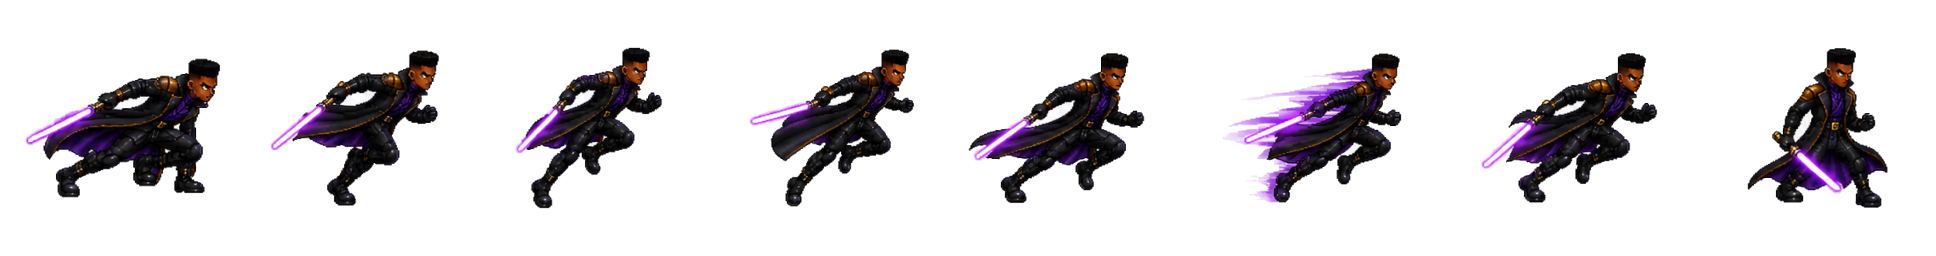
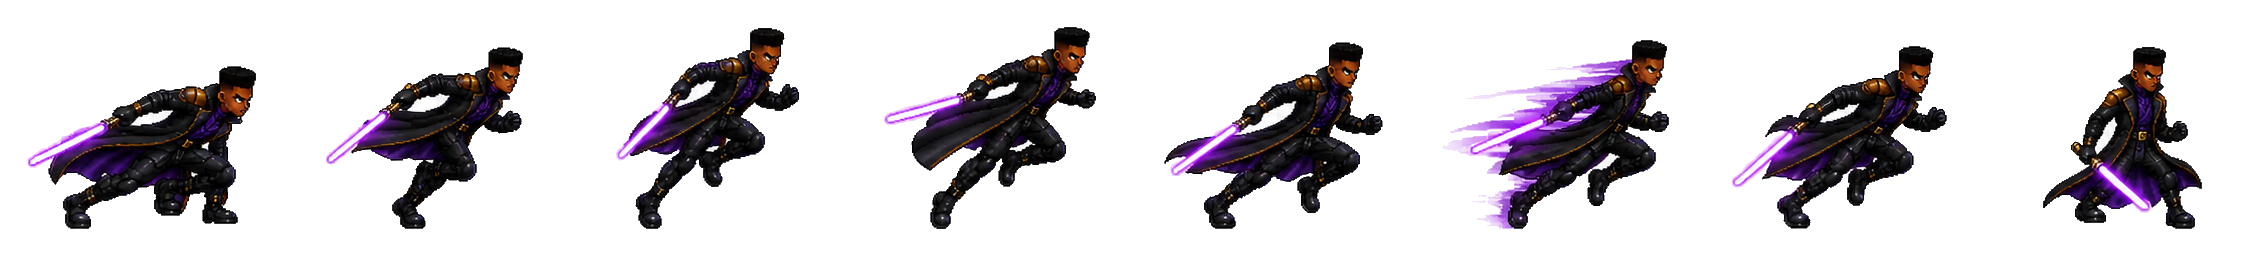
0.5.123 (build 161): running is a burst, and the character holds its size
A session is "working" almost all the time, so a sprint on a permanent loop was
what the pet did roughly 90% of the time. Running and patrol now play through
PetPlaylist: settled on the idle clip most beats, breaking into the action about
30% of them, capped at two consecutive beats. The first schedule produced runs
of EIGHT action beats — nineteen unbroken seconds of sprinting, the very problem
this fixes — and the contract test caught it, so the cap is enforced rather than
the test loosened. The cadence is a pure function of the clock, so a panel
redraw never makes playback jump. Fight poses are excluded.

Strips also normalise as a whole rather than per frame. Cropping and
height-fitting each frame independently ENLARGED a crouched running frame to
match a standing one, so the character appeared to grow and shrink mid-stride
while its feet drifted. One canvas, one scale, ink bottoms on a shared
baseline: measured on the V3 running strip, baseline spread is 0 px across all
eight frames and authored pose differences survive intact.

Build 160 was cut and installed locally but never published; its changes ship
here.

Changed region(s): [[0.0, 0.0938, 0.8678, 0.9062], [0.8988, 0.1875, 0.9917, 0.9062]]

diff --git a/Sources/Models.swift b/Sources/Models.swift
@@ -2634,6 +2634,58 @@ struct PetSize: Equatable {
     }
 }
 
+/// Running and patrol are TRANSITIONS, not resting states. A session spends
+/// most of its life "working", so one sprint loop repeating forever is what the
+/// pet does ~90% of the time and it reads as mechanical. These poses play as
+/// periodic bursts against a calmer clip instead: mostly at rest, breaking into
+/// the action every few segments, with the cadence varied so it never lands on
+/// an obvious repeat.
+///
+/// Seeded by segment index and nothing else — no stored state, so a re-render
+/// of the same instant always paints the same frame.
+enum PetPlaylist {
+    /// One beat. Long enough to read as a deliberate change, short enough that
+    /// the pet still feels responsive.
+    static let segmentSeconds: Double = 2.4
+    /// Roughly one beat in three is action; the rest settle.
+    static let actionInterval: UInt64 = 3
+
+    private static func rawPick(_ segment: Int) -> Bool {
+        var x = UInt64(bitPattern: Int64(segment)) &* 0x9E37_79B9_7F4A_7C15
+        x ^= x >> 30
+        x = x &* 0xBF58_476D_1CE4_E5B9
+        x ^= x >> 27
+        x = x &* 0x94D0_49BB_1331_11EB
+        x ^= x >> 31
+        return x % actionInterval == 0
+    }
+
+    /// The raw hash alone produced runs of eight consecutive action beats —
+    /// nineteen seconds of unbroken sprinting, which is the problem this
+    /// exists to solve. Two beats is a burst; a third would be a loop, so the
+    /// third is always a rest. Still a pure function of the segment index.
+    static func isActionSegment(_ segment: Int) -> Bool {
+        guard rawPick(segment) else { return false }
+        return !(rawPick(segment - 1) && rawPick(segment - 2))
+    }
+
+    /// Which clip to draw from, and which frame of it, at `elapsed` seconds.
+    static func plan(
+        elapsed: Double,
+        actionCount: Int,
+        restCount: Int,
+        interval: Double
+    ) -> (useAction: Bool, index: Int) {
+        guard actionCount > 0, restCount > 0, interval > 0 else { return (true, 0) }
+        let segment = Int((max(0, elapsed) / segmentSeconds).rounded(.down))
+        let useAction = isActionSegment(segment)
+        let within = max(0, elapsed) - Double(segment) * segmentSeconds
+        let count = useAction ? actionCount : restCount
+        let index = Int(within / interval) % count
+        return (useAction, index)
+    }
+}
+
 /// The character dial, independent of PetSize. Pet size sets the CARD (buttons,
 /// text, bubbles, list); this scales only the figure inside it, so the art can
 /// be read at detail without inflating the chrome around it.
@@ -2782,6 +2834,19 @@ enum PetSpritePose: String, CaseIterable, Hashable, Sendable {
     var cinematic: Bool {
         switch self {
         case .patrol, .duel, .trio, .swarm: true
+        default: false
+        }
+    }
+
+    /// Poses that read as an ACTION rather than a state. A session is
+    /// "working" almost all the time, so a sprint on a permanent loop is what
+    /// the pet does ~90% of the time; the same goes for patrol on one idle
+    /// session. These play through PetPlaylist: mostly settled, breaking into
+    /// the action every few beats. Fight poses are excluded — a duel should
+    /// look like a duel for as long as it lasts.
+    var usesActivityPlaylist: Bool {
+        switch self {
+        case .working, .patrol: true
         default: false
         }
     }
@@ -3335,6 +3400,64 @@ enum PetSpriteStrip {
         return kept
     }
 
+    /// Ink bounds of a frame, or nil when it holds no ink.
+    static func inkBounds(_ image: NSImage) -> (x: Int, y: Int, w: Int, h: Int)? {
+        guard let buffer = PetSpriteAlpha.rgbaBuffer(image) else { return nil }
+        var minX = buffer.width, minY = buffer.height, maxX = -1, maxY = -1
+        for y in 0..<buffer.height {
+            for x in 0..<buffer.width {
+                guard PetSpriteAlpha.isSpriteInk(buffer.pixels, at: (y * buffer.width + x) * 4) else { continue }
+                minX = min(minX, x); minY = min(minY, y)
+                maxX = max(maxX, x); maxY = max(maxY, y)
+            }
+        }
+        guard maxX >= minX, maxY >= minY else { return nil }
+        return (minX, minY, maxX - minX + 1, maxY - minY + 1)
+    }
+
+    /// Cropping and height-fitting each frame INDEPENDENTLY re-scales every
+    /// pose to fill the same box, so the character changes size between frames
+    /// of one animation. Measured on the V3 running strip: the figure rendered
+    /// at 54% of frame height in one frame and 62% in another — a 15% jump,
+    /// which reads as the character growing and shrinking as it runs.
+    ///
+    /// Normalise the STRIP instead: one canvas, one scale, ink bottoms on a
+    /// shared baseline. Authored size differences survive (a crouch stays
+    /// shorter than a stand) and the figure does not bob.
+    static func normalizeStrip(_ frames: [NSImage], paddingRatio: CGFloat = 0.12) -> [NSImage] {
+        guard frames.count > 1 else { return frames }
+        var boxes: [(x: Int, y: Int, w: Int, h: Int)] = []
+        var rasters: [CGImage] = []
+        for frame in frames {
+            guard let box = inkBounds(frame), let cg = raster(frame) else { return frames }
+            boxes.append(box)
+            rasters.append(cg)
+        }
+        let unionW = boxes.map(\.w).max() ?? 1
+        let unionH = boxes.map(\.h).max() ?? 1
+        let pad = max(8, Int((CGFloat(max(unionW, unionH)) * paddingRatio).rounded()))
+        let canvasW = unionW + pad * 2
+        let canvasH = unionH + pad * 2
+        var out: [NSImage] = []
+        out.reserveCapacity(frames.count)
+        for (index, cg) in rasters.enumerated() {
+            let box = boxes[index]
+            guard let ink = cg.cropping(to: CGRect(x: box.x, y: box.y, width: box.w, height: box.h)),
+                  let ctx = CGContext(
+                    data: nil, width: canvasW, height: canvasH, bitsPerComponent: 8,
+                    bytesPerRow: canvasW * 4, space: CGColorSpaceCreateDeviceRGB(),
+                    bitmapInfo: CGImageAlphaInfo.premultipliedLast.rawValue)
+            else { return frames }
+            ctx.clear(CGRect(x: 0, y: 0, width: canvasW, height: canvasH))
+            // Horizontally centred; ink BOTTOM on a shared baseline. A CGContext
+            // is bottom-up, so the baseline sits `pad` above its origin.
+            ctx.draw(ink, in: CGRect(x: (canvasW - box.w) / 2, y: pad, width: box.w, height: box.h))
+            guard let made = ctx.makeImage() else { return frames }
+            out.append(NSImage(cgImage: made, size: NSSize(width: canvasW, height: canvasH)))
+        }
+        return out
+    }
+
     /// Returns the prepared image AND the frame count that was stitched, so
     /// playback slices exactly what exists.
     static func prepare(_ image: NSImage, frames: Int = 1) -> (image: NSImage, frames: Int) {
@@ -3343,7 +3466,11 @@ enum PetSpriteStrip {
             return (fitHeight(cropOpaque(image)), 1)
         }
         let parts = dropSubjectlessFrames(sliceStripByValleys(image, frames: count))
-        let prepared = parts.map { fitHeight(cropOpaque(suppressTruncatedEdgeSlivers($0), paddingRatio: 0.30)) }
+        let cleaned = parts.map { suppressTruncatedEdgeSlivers($0) }
+        // One scale and one baseline for the whole strip. Per-frame
+        // cropOpaque + fitHeight here is what changed the character's size
+        // between frames of the same animation.
+        let prepared = normalizeStrip(cleaned).map { fitHeight($0) }
         guard let stitched = stitch(prepared) else { return (image, 1) }
         return (stitched, clampFrames(prepared.count))
     }

diff --git a/Tests/ModelsContract.swift b/Tests/ModelsContract.swift
@@ -1315,6 +1315,65 @@ struct ModelsContract {
         precondition(ladder.frames(for: .swarm).count == 4,
                      "swarm plays the full ladder")
 
+        // ACTIVITY PLAYLIST: running and patrol are actions, not states. They
+        // must spend MOST beats settled, break into the action sometimes, and
+        // be fully determined by the clock so a re-render never jumps.
+        precondition(PetSpritePose.working.usesActivityPlaylist)
+        precondition(PetSpritePose.patrol.usesActivityPlaylist)
+        precondition(!PetSpritePose.duel.usesActivityPlaylist,
+                     "a duel must look like a duel for as long as it lasts")
+        precondition(!PetSpritePose.idle.usesActivityPlaylist)
+        var actionBeats = 0
+        for segment in 0..<600 where PetPlaylist.isActionSegment(segment) { actionBeats += 1 }
+        precondition(actionBeats > 120 && actionBeats < 280,
+                     "action should be a minority of beats, got \(actionBeats)/600")
+        precondition(PetPlaylist.isActionSegment(7) == PetPlaylist.isActionSegment(7),
+                     "the schedule must be deterministic")
+        var runs = 0, longest = 0, current = 0
+        for segment in 0..<600 {
+            if PetPlaylist.isActionSegment(segment) { current += 1; longest = max(longest, current) }
+            else { if current > 0 { runs += 1 }; current = 0 }
+        }
+        precondition(runs > 40, "action beats must recur, not clump into one stretch")
+        precondition(longest <= 2,
+                     "a burst is at most two beats; a third is a loop, longest was \(longest)")
+        let restPlan = PetPlaylist.plan(elapsed: 0.0, actionCount: 8, restCount: 8, interval: 0.1)
+        precondition(restPlan.index == 0, "a beat starts at its first frame")
+        let midPlan = PetPlaylist.plan(elapsed: 0.35, actionCount: 8, restCount: 8, interval: 0.1)
+        precondition(midPlan.index == 3, "frames step at the pose interval, got \(midPlan.index)")
+        let wrapPlan = PetPlaylist.plan(elapsed: 1.25, actionCount: 4, restCount: 4, interval: 0.1)
+        precondition(wrapPlan.index < 4, "the index must stay inside the clip")
+        precondition(PetPlaylist.plan(elapsed: -5, actionCount: 8, restCount: 8, interval: 0.1).index == 0,
+                     "a negative clock must not index out of the clip")
+        precondition(PetPlaylist.plan(elapsed: 3, actionCount: 0, restCount: 0, interval: 0).index == 0,
+                     "an empty clip must degrade safely")
+
+        // STRIP NORMALISATION: authored size differences must SURVIVE, and ink
+        // must share a baseline. Per-frame fitHeight rendered a short pose and
+        // a tall pose at the same height — the character resizing mid-animation.
+        let shortPose = spriteProbe(width: 120, height: 120, blobs: [(x: 40, w: 30, y: 70, h: 30)])
+        let tallPose = spriteProbe(width: 120, height: 120, blobs: [(x: 40, w: 30, y: 40, h: 60)])
+        let normalized = PetSpriteStrip.normalizeStrip([shortPose, tallPose])
+        precondition(normalized.count == 2, "normalisation must not change the frame count")
+        guard let nShort = PetSpriteStrip.inkBounds(normalized[0]),
+              let nTall = PetSpriteStrip.inkBounds(normalized[1]) else {
+            preconditionFailure("normalised frames must hold ink")
+        }
+        precondition(normalized[0].size == normalized[1].size,
+                     "every frame shares one canvas, so one scale applies to all")
+        let sizeRatio = Double(nTall.h) / Double(nShort.h)
+        precondition(sizeRatio > 1.8 && sizeRatio < 2.2,
+                     "the 2:1 authored height ratio must survive, got \(String(format: "%.2f", sizeRatio))")
+        precondition(abs((nShort.y + nShort.h) - (nTall.y + nTall.h)) <= 1,
+                     "ink bottoms must land on a shared baseline")
+        // Frames must also reach the SAME canvas independently of their own ink
+        // box; that is what guarantees one scale downstream, since fitHeight
+        // applies the same factor to identically sized inputs.
+        let wideEffect = spriteProbe(width: 120, height: 120, blobs: [(x: 10, w: 100, y: 80, h: 20)])
+        let three = PetSpriteStrip.normalizeStrip([shortPose, tallPose, wideEffect])
+        precondition(Set(three.map(\.size.width)).count == 1 && Set(three.map(\.size.height)).count == 1,
+                     "a frame with a wide effect must share the strip's canvas, not get its own")
+
         // SHIPPED DEFAULT: seeds an empty install, and never overwrites the
         // user's own sprites (which would undo Choose sprite or Use COS figure).
         let seedRoot = FileManager.default.temporaryDirectory

diff --git a/Sources/COSMotion.swift b/Sources/COSMotion.swift
@@ -219,19 +219,29 @@ struct SessionPetSprite: View {
     var size: CGFloat = 64
     /// The character dial only; the card around this view sizes off PetSize.
     var characterScale: CGFloat = 1
+    /// The settled clip an action pose returns to between bursts.
+    var restFrames: [NSImage] = []
+
+    /// Running and patrol are actions, not states: play them as periodic
+    /// bursts against the rest clip instead of one loop forever.
+    private var playlists: Bool {
+        pose.usesActivityPlaylist && frames.count > 1 && restFrames.count > 1 && !reduceMotion
+    }
 
     var body: some View {
         let interval = reduceMotion ? 3600.0 : pose.frameInterval
         // Cinematic scenes are distinct paintings, not run-cycle cells; a hard
         // cut between them reads as a slideshow. Cross-dissolve the last third
         // of each interval so the fight flows. Needs sub-interval ticks.
-        let dissolves = pose.cinematic && frames.count > 1 && !reduceMotion
+        let dissolves = pose.cinematic && frames.count > 1 && !reduceMotion && !playlists
         let tick = dissolves ? interval / 8 : interval
         TimelineView(.animation(minimumInterval: tick, paused: reduceMotion && frames.count <= 1)) { timeline in
             let phase = reduceMotion ? 0.0 : sin(timeline.date.timeIntervalSinceReferenceDate * (working ? 6.2 : 2.4))
             let bounce = working && !reduceMotion ? CGFloat(phase) * max(1, size * 0.022) : 0
             Group {
-                if dissolves {
+                if playlists, let frame = playlistFrame(at: timeline.date) {
+                    frameImage(frame)
+                } else if dissolves {
                     let t = timeline.date.timeIntervalSinceReferenceDate / pose.frameInterval
                     let index = Int(t) % frames.count
                     let next = (index + 1) % frames.count
@@ -317,6 +327,20 @@ struct SessionPetSprite: View {
             .antialiased(false)
             .resizable()
             .scaledToFit()
+    }
+
+    /// Absolute-time schedule, so no per-instance state has to survive the
+    /// panel rebuilding its root view on every poll.
+    private func playlistFrame(at date: Date) -> NSImage? {
+        let plan = PetPlaylist.plan(
+            elapsed: date.timeIntervalSinceReferenceDate,
+            actionCount: frames.count,
+            restCount: restFrames.count,
+            interval: pose.frameInterval
+        )
+        let clip = plan.useAction ? frames : restFrames
+        guard !clip.isEmpty else { return nil }
+        return clip[min(plan.index, clip.count - 1)]
     }
 
     private func playbackFrame(at date: Date) -> NSImage? {

diff --git a/Sources/SessionPet.swift b/Sources/SessionPet.swift
@@ -185,7 +185,8 @@ private struct SessionPetRoot: View {
                             frames: model.petSpriteKit.frames(for: pose),
                             pose: pose,
                             size: CGFloat(size.pixels),
-                            characterScale: model.petCharacterFactor
+                            characterScale: model.petCharacterFactor,
+                            restFrames: model.petSpriteKit.frames(for: .idle)
                         )
                         if let focus {
                             Circle()

diff --git a/CHANGELOG.md b/CHANGELOG.md
@@ -1,3 +1,24 @@
+## 0.5.123 (build 161)
+
+Running is a burst, not a treadmill — and the character holds its size.
+
+A session is "working" almost all the time, so a sprint on a permanent loop
+was what the pet did roughly 90% of the time. Running and patrol now play as
+periodic bursts against the idle clip: settled most beats, breaking into the
+action about 30% of the time, at most two beats in a row (a third would be a
+loop again). The cadence is a pure function of the clock, so it never jumps
+when the panel redraws, and it is irregular enough not to read as a pattern.
+Fight poses are untouched — a duel should look like a duel for as long as it
+lasts.
+
+Each frame was cropped to its own ink and scaled to fill the same box, so a
+crouched running frame was ENLARGED to match a standing one — the figure
+appeared to grow and shrink mid-stride, and its feet drifted. A strip is now
+normalised as a whole: one canvas, one scale, ink bottoms on a shared baseline.
+Authored pose differences survive (a crouch stays shorter than a stand) while
+the character itself holds its size. Measured on the V3 running strip: baseline
+spread 0 px across all eight frames, down from per-frame drift.
+
 ## 0.5.121 (build 159)
 
 The default character animates in every state.
